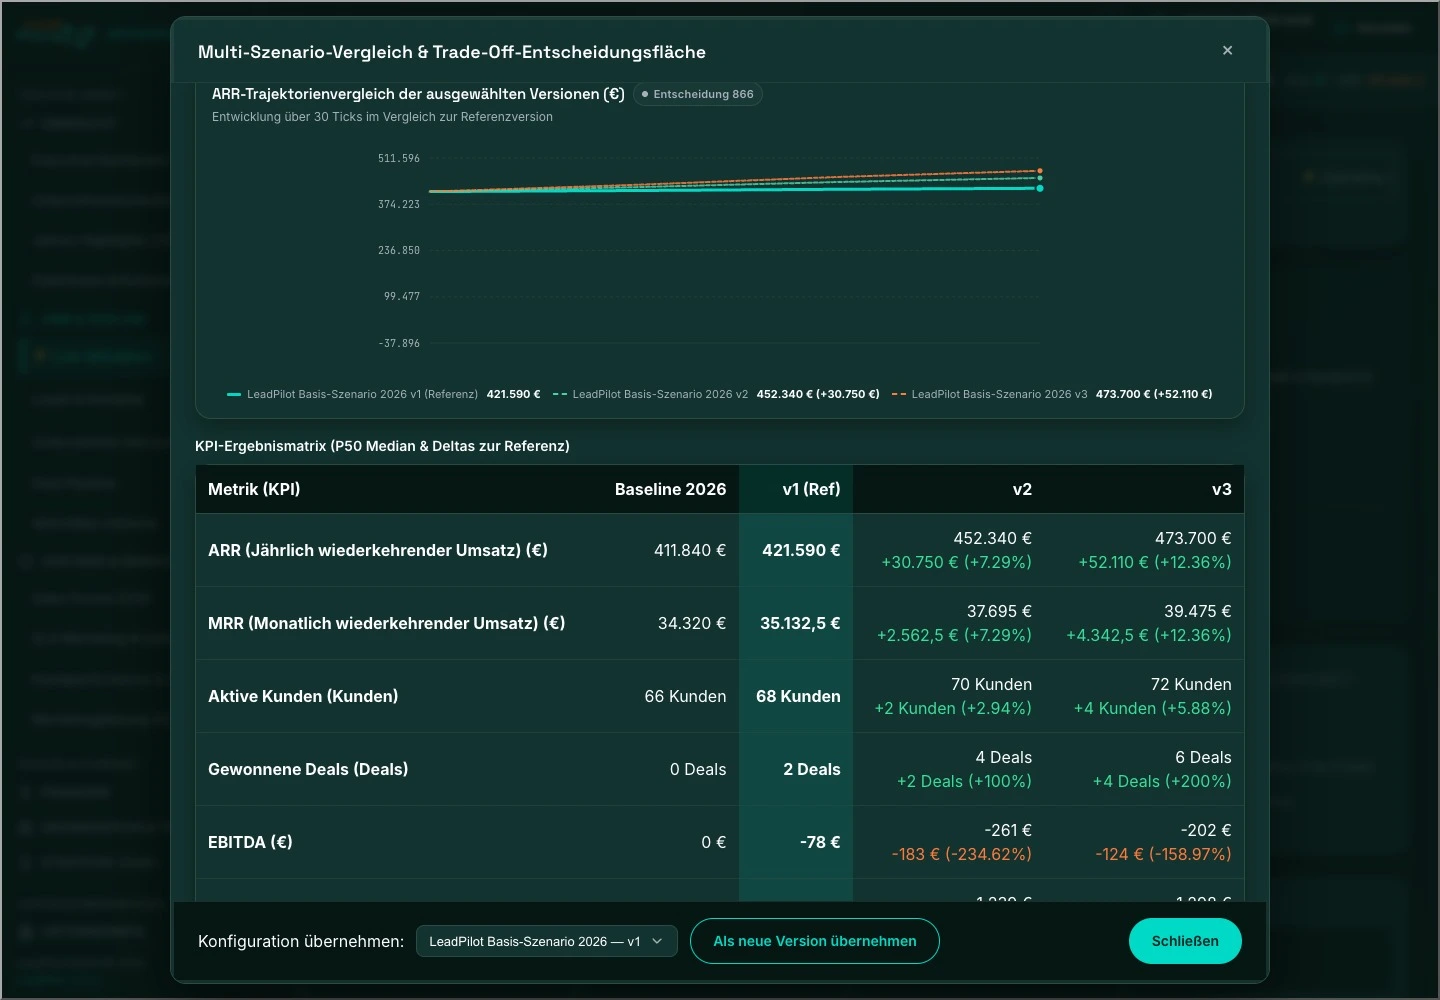
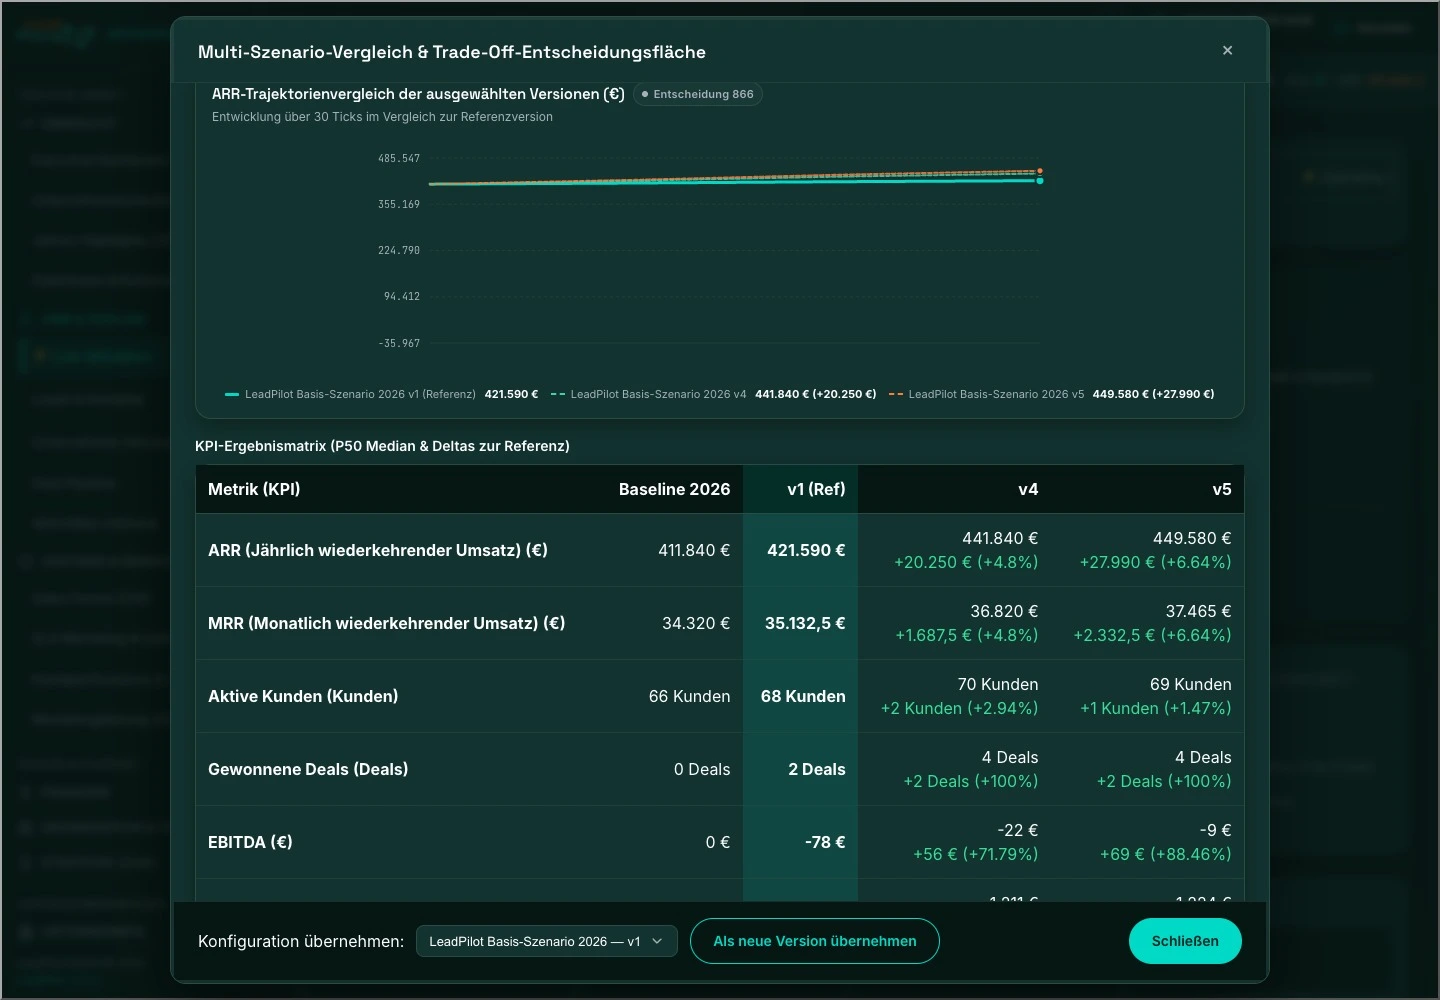
LeadPilot-Case: Hebel mit Simulations-Gegenprobe abgleichen
Szenariovergleich neu: v4 (Churn 1,8 %) und v5 (Trial-to-Paid 26 %),
je nur ein Parameter gegenüber v1 geändert, je 30 Tage simuliert.
Hebelblock kennzeichnet Plan (12 Monate) und Simulation (30 Tage).

diff --git a/gtm-portfolio/src/Revenue.tsx b/gtm-portfolio/src/Revenue.tsx
@@ -19,13 +19,14 @@ export function RevenueBlock({ data }: { data: RevenueAnalysis }) {
     <h3 className="rv-heading">Meine Analyse</h3>
     <div className="rv-findings">{data.findings.map((f, i) => <article key={f.title}><span>{String(i + 1).padStart(2, '0')}</span><h4>{f.title}</h4><p>{f.text}</p></article>)}</div>
 
-    <div className="rv-panel"><div className="rv-panel-head"><h3>Der Weg zu {euro(data.bridge.target)} ARR</h3><span>ARR-Effekt der Hebel im Plan 2026</span></div>
+    <div className="rv-panel"><div className="rv-panel-head"><h3>Der Weg zu {euro(data.bridge.target)} ARR</h3><span>ARR-Effekt der Hebel im Plan 2026 · 12 Monate</span></div>
       <ul className="rv-bridge">
         <li className="rv-bridge-base"><span>Ausgangswert 2025</span><strong>{euro(data.bridge.start)}</strong></li>
-        {data.bridge.drivers.map(d => <li key={d.label}><span>{d.label}</span><span className="rv-bar"><span style={{ width: `${d.value / largest * 100}%` }} /></span><strong>+ {euro(d.value)}</strong></li>)}
+        {data.bridge.drivers.map(d => <li key={d.label}><span className="rv-driver">{d.label}{d.simulated !== undefined && <small className="rv-sim">Simulation 30 Tage: + {euro(d.simulated)}</small>}</span><span className="rv-bar"><span style={{ width: `${d.value / largest * 100}%` }} /></span><strong>+ {euro(d.value)}</strong></li>)}
         <li className="rv-bridge-base"><span>Summe der Hebel</span><strong>+ {euro(driverTotal)}</strong></li>
       </ul>
       <p className="rv-note">Die beiden größten Hebel liegen nach dem ersten Kontakt: bei der Testphase und bei der Kundenbindung.</p>
+      {data.bridge.simulation && <p className="rv-sim-note">{data.bridge.simulation}</p>}
     </div>
     <p className="rv-source">{data.source}</p>
   </div>;

diff --git a/gtm-portfolio/src/content.ts b/gtm-portfolio/src/content.ts
@@ -10,7 +10,7 @@ export type RevenueAnalysis = {
   funnel: { stage: string; value: number; rate?: string }[];
   kpis: { label: string; value: string; target: string }[];
   findings: { title: string; text: string }[];
-  bridge: { start: number; target: number; drivers: { label: string; value: number }[] };
+  bridge: { start: number; target: number; drivers: { label: string; value: number; simulated?: number }[]; simulation?: string };
 };
 
 export const profile = {
@@ -64,12 +64,13 @@ export const cases: CaseStudy[] = [
       bridge: {
         start: 411840, target: 620000,
         drivers: [
-          { label: 'Trial-to-Paid 18 → 26 %', value: 72000 },
-          { label: 'Churn 2,8 → 1,8 %', value: 58000 },
+          { label: 'Trial-to-Paid 18 → 26 %', value: 72000, simulated: 27990 },
+          { label: 'Churn 2,8 → 1,8 %', value: 58000, simulated: 20250 },
           { label: 'Partnerprogramm', value: 34000 },
           { label: 'ICP-Schärfung (ARPA)', value: 26000 },
           { label: 'Upsell Starter → Growth', value: 18000 },
         ],
+        simulation: 'Gegenprobe in der LeadPilot-Simulation: Beide Hebel einzeln als Szenario gerechnet, je ein Lauf über 30 Tage. Trial bringt dort +27.990 €, Churn +20.250 € ARR – dieselbe Reihenfolge wie im Plan. Die Jahreswerte fallen höher aus, weil sich der Effekt über zwölf Monate aufbaut.',
       },
     },
   },

diff --git a/gtm-portfolio/src/revenue.css b/gtm-portfolio/src/revenue.css
@@ -25,6 +25,9 @@
 .rv-bridge .rv-bridge-base{grid-template-columns:1fr 110px;font-weight:600;padding:10px 0;border-top:1px solid var(--line)}
 .rv-bridge .rv-bridge-base:first-child{border-top:0;border-bottom:1px solid var(--line)}
 .rv-note{font-size:13px;margin-top:16px}
+.rv-driver{display:flex;flex-direction:column;gap:2px}
+.rv-sim{font-size:11px;color:var(--muted);font-variant-numeric:tabular-nums}
+.rv-sim-note{font-size:12px;color:var(--muted);margin-top:8px;padding-top:12px;border-top:1px solid var(--line)}
 .rv-source{font-size:11px;color:var(--muted)}
 @media(max-width:850px){.rv-kpis{grid-template-columns:repeat(2,1fr)}.rv-findings{grid-template-columns:1fr}}
 @media(max-width:620px){.rv-panel{padding:18px}.rv-funnel li{grid-template-columns:72px 1fr 48px;gap:10px}.rv-funnel small{grid-column:2/4;text-align:left;margin-top:-8px}.rv-bridge li{grid-template-columns:1fr auto}.rv-bridge li .rv-bar{grid-column:1/-1;grid-row:2}.rv-kpis strong{font-size:20px}}
